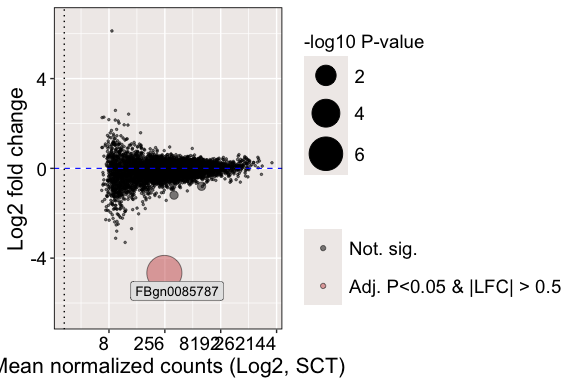
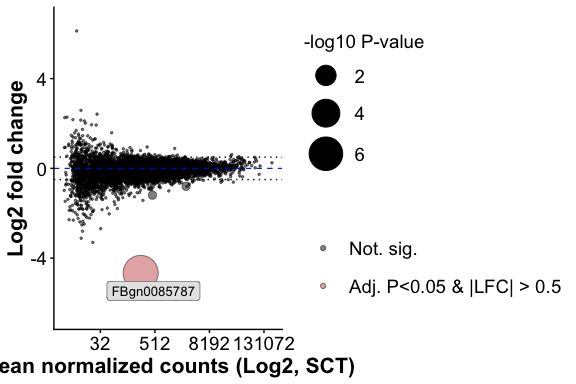
Update PlotMA function and demo image

diff --git a/vignettes/introduction.md b/vignettes/introduction.md
@@ -99,7 +99,8 @@ filtered out before running `DESeq2.`
       colData = meta,
       design = ~ condition + library + condition:library
     )
-    #> Warning in DESeqDataSet(se, design = design, ignoreRank): some variables in design formula are characters, converting to factors
+    #> Warning in DESeqDataSet(se, design = design, ignoreRank): some variables in design formula are characters,
+    #> converting to factors
 
     # Set reference levels
     dds$condition <- relevel(dds$condition, ref = "untreated")
@@ -147,9 +148,6 @@ some plotting functions.
            fc = 0.5)
     #> Scale for size is already present.
     #> Adding another scale for size, which will replace the existing scale.
-    #> Warning in log(x, base): NaNs produced
-    #> Warning in scale_x_continuous(trans = "log2"): log-2 transformation introduced infinite values.
-    #> Warning: Removed 1 row containing missing values or values outside the scale range (`geom_vline()`).
 
     # View object summary
     obj
@@ -214,8 +212,6 @@ metadata features that drive clustering.
     #> $palettes$library
     #> single-end paired-end 
     #>  "#FF7F00"  "#4DAF4A"
-
-<img src="introduction_files/figure-markdown_strict/clustering-1.png" width="60%" style="display: block; margin: auto;" />
 
 ## Identify highly variable genes
 
@@ -309,13 +305,6 @@ To quickly plot PCA results, the `PlotPCA` function can be used.
             color_by = "condition",
             colors = c("untreated" = "red", "treated" = "blue"),
             shape_by = "library")
-    #> Warning: `aes_string()` was deprecated in ggplot2 3.0.0.
-    #> ℹ Please use tidy evaluation idioms with `aes()`.
-    #> ℹ See also `vignette("ggplot2-in-packages")` for more information.
-    #> ℹ The deprecated feature was likely used in the RGenEDA package.
-    #>   Please report the issue to the authors.
-    #> This warning is displayed once every 8 hours.
-    #> Call `lifecycle::last_lifecycle_warnings()` to see where this warning was generated.
 
 <img src="introduction_files/figure-markdown_strict/extract-pca-1.png" width="70%" style="display: block; margin: auto;" />
 \## Explore Eigen vectors of individual PCs
@@ -338,8 +327,6 @@ Heatmap values are the normalized expression values scaled and Z-scored.
                            annotate_colors = list(Group = c("untreated" = "red", "treated" = "blue")))
 
     ht$heatmap
-
-<img src="introduction_files/figure-markdown_strict/eigenvecs-1.png" style="display: block; margin: auto;" />
 
 ## Correlate PCs with metadata
 
